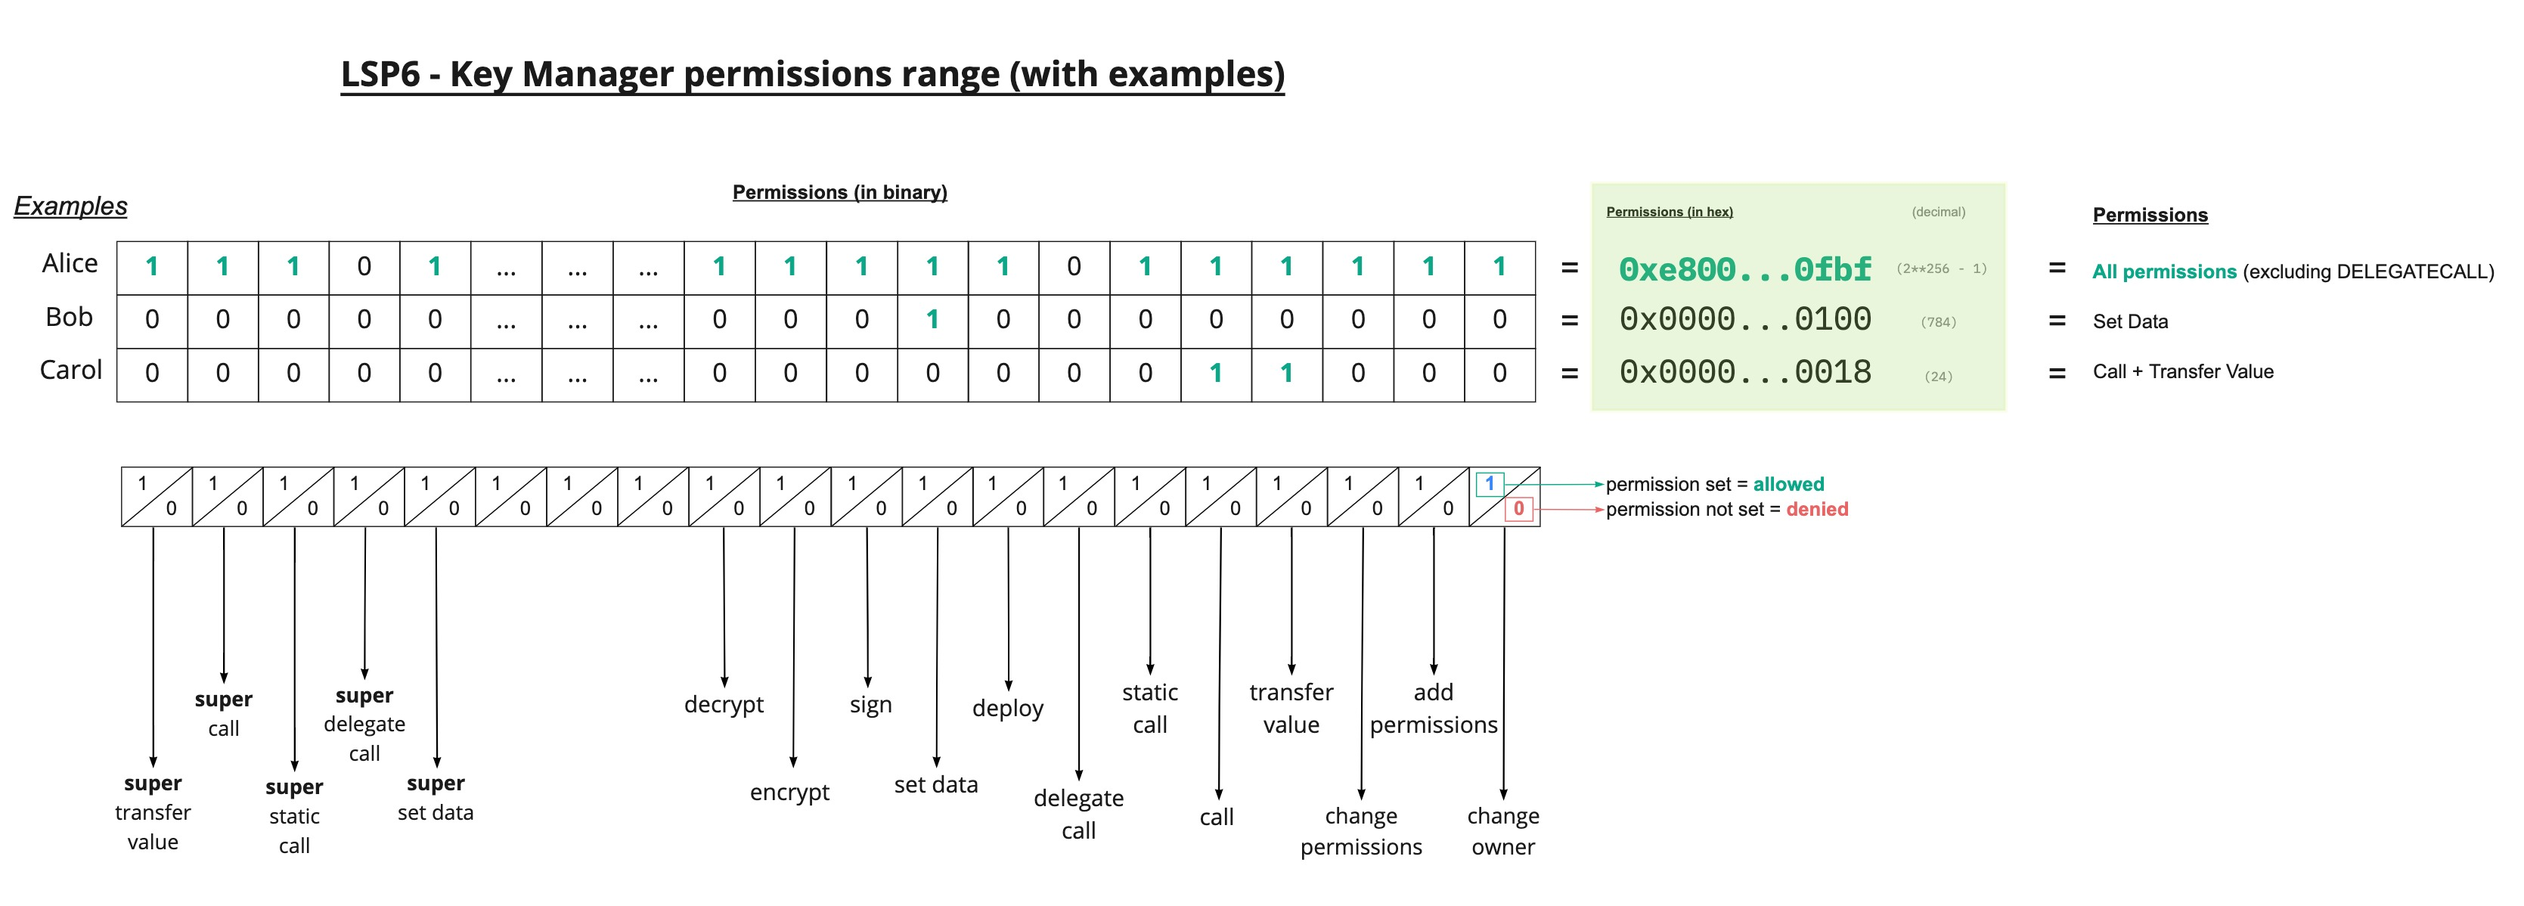
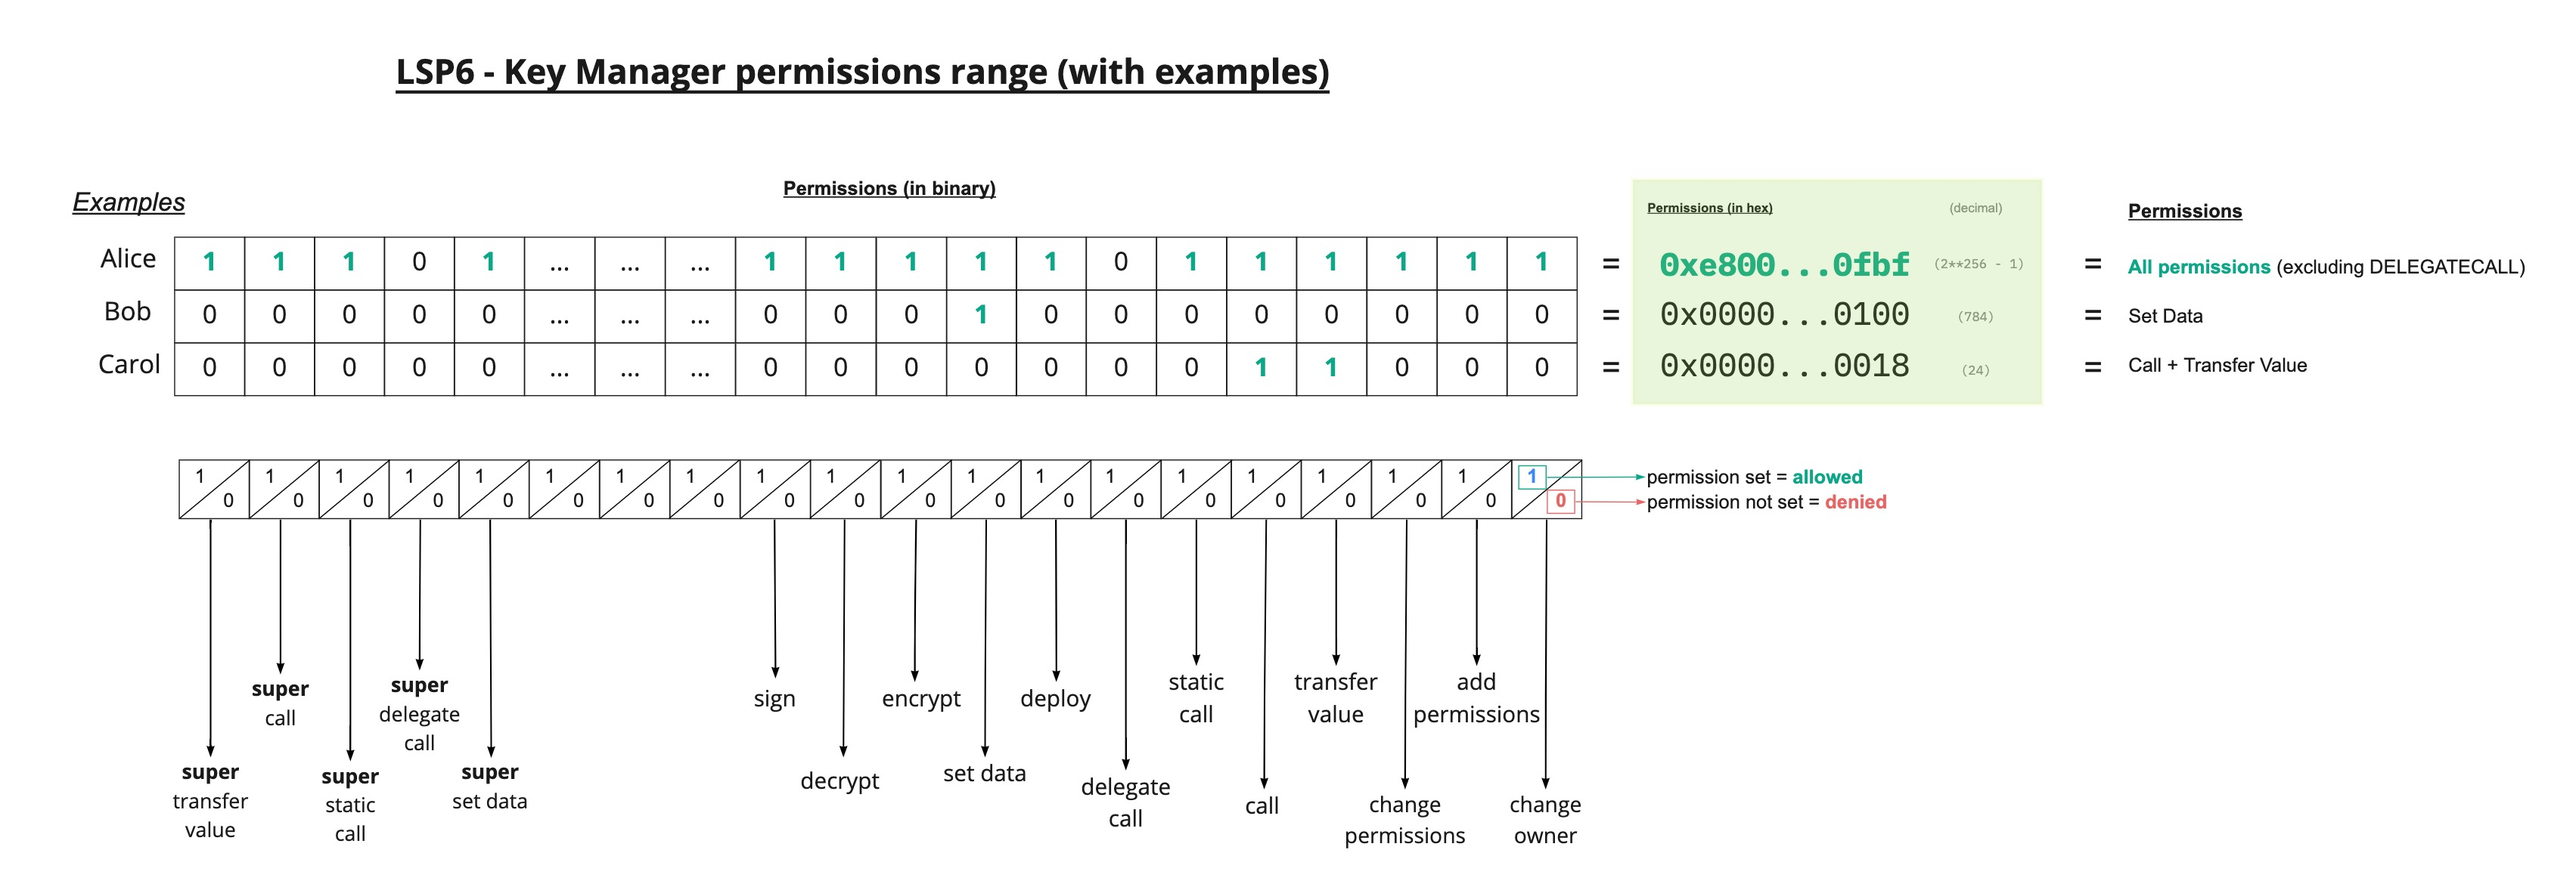
move permission `SIGN` at the end

diff --git a/LSPs/LSP-6-KeyManager.md b/LSPs/LSP-6-KeyManager.md
@@ -197,14 +197,14 @@ DEPLOY              = 0x00000000000000000000000000000000000000000000000000000000
 // Allows setting data on the controlled contract
 SETDATA             = 0x0000000000000000000000000000000000000000000000000000000000000100;
 // [....] .... 0010 .... .... 
-// Allows signing on behalf of the controlled contract, for example for login purposes
-SIGN                = 0x0000000000000000000000000000000000000000000000000000000000000200;
-// [....] .... 0100 .... ....
 // Allows encrypting messages on behalf of the controlled contract, for example for private messages
-ENCRYPT             = 0x0000000000000000000000000000000000000000000000000000000000000400
-// [....] .... 1000 .... ....
+ENCRYPT                = 0x0000000000000000000000000000000000000000000000000000000000000200;
+// [....] .... 0100 .... ....
 // Allows decrypt messages on behalf of the controlled contract, for example for private messages
-DECRYPT             = 0x0000000000000000000000000000000000000000000000000000000000000800
+DECRYPT             = 0x0000000000000000000000000000000000000000000000000000000000000400
+// [....] .... 1000 .... ....
+// Allows signing on behalf of the controlled contract, for example for login purposes
+SIGN             = 0x0000000000000000000000000000000000000000000000000000000000000800
 
 // left most bits ----------
 
